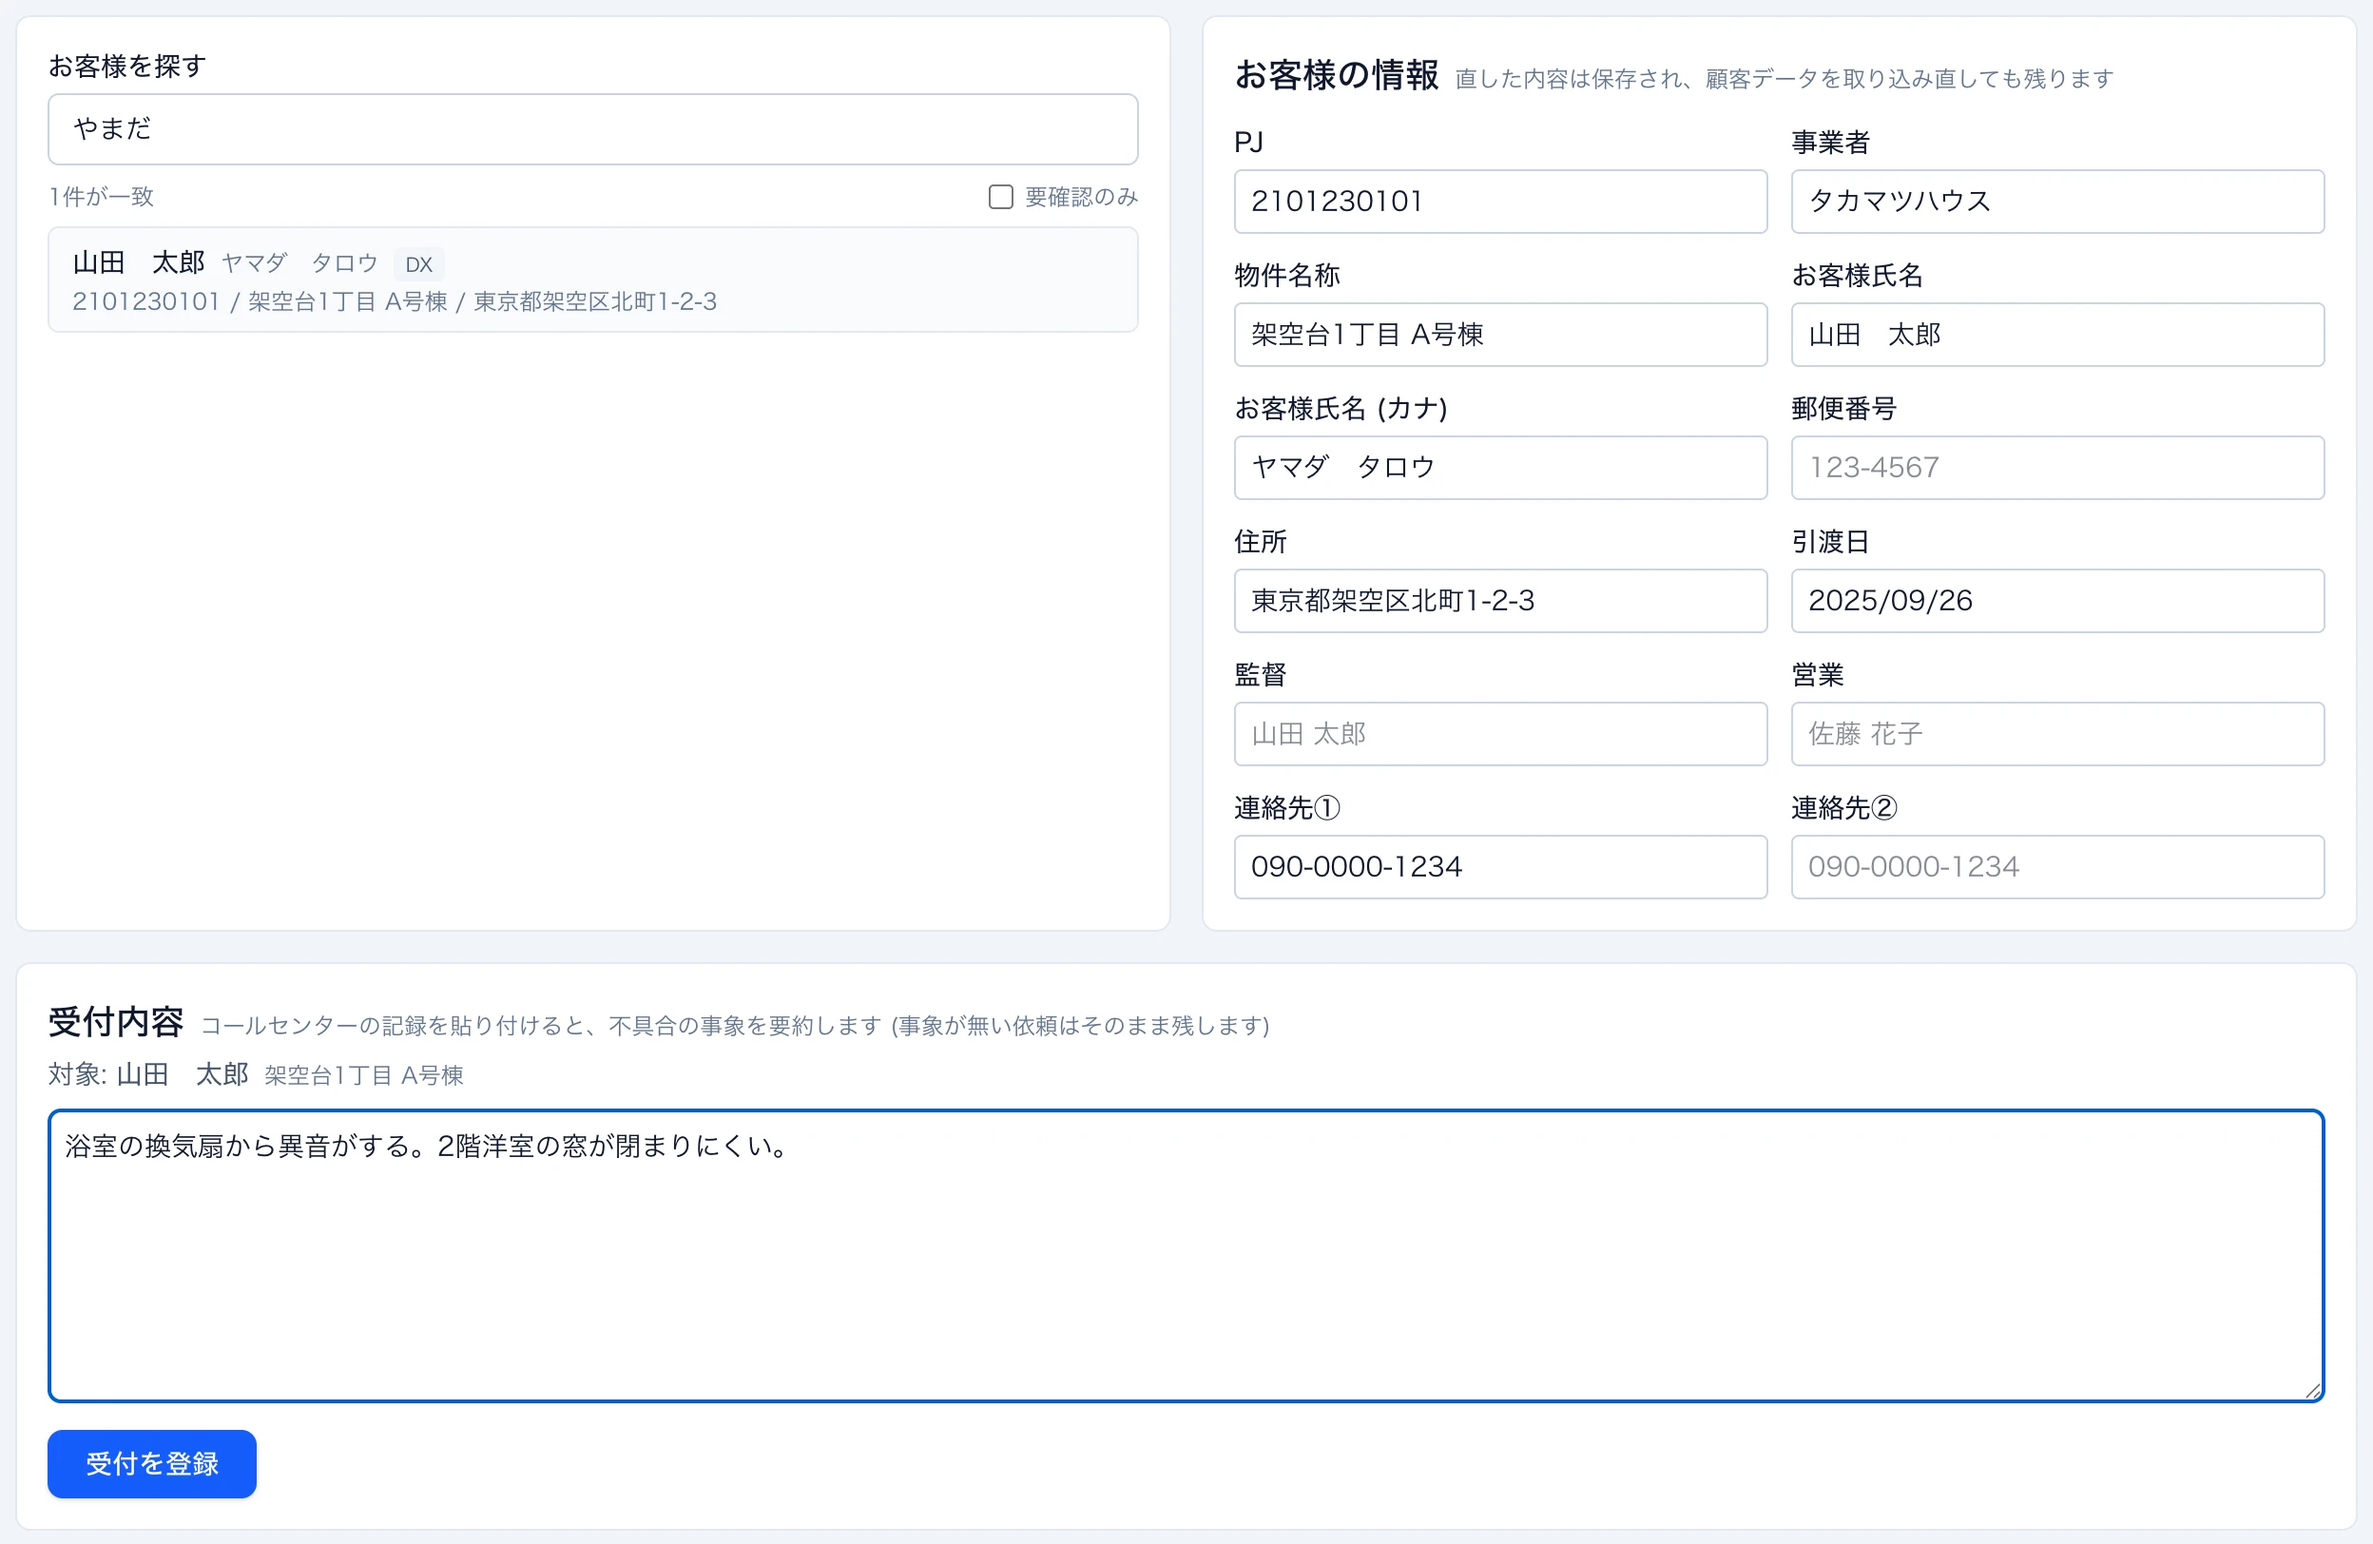
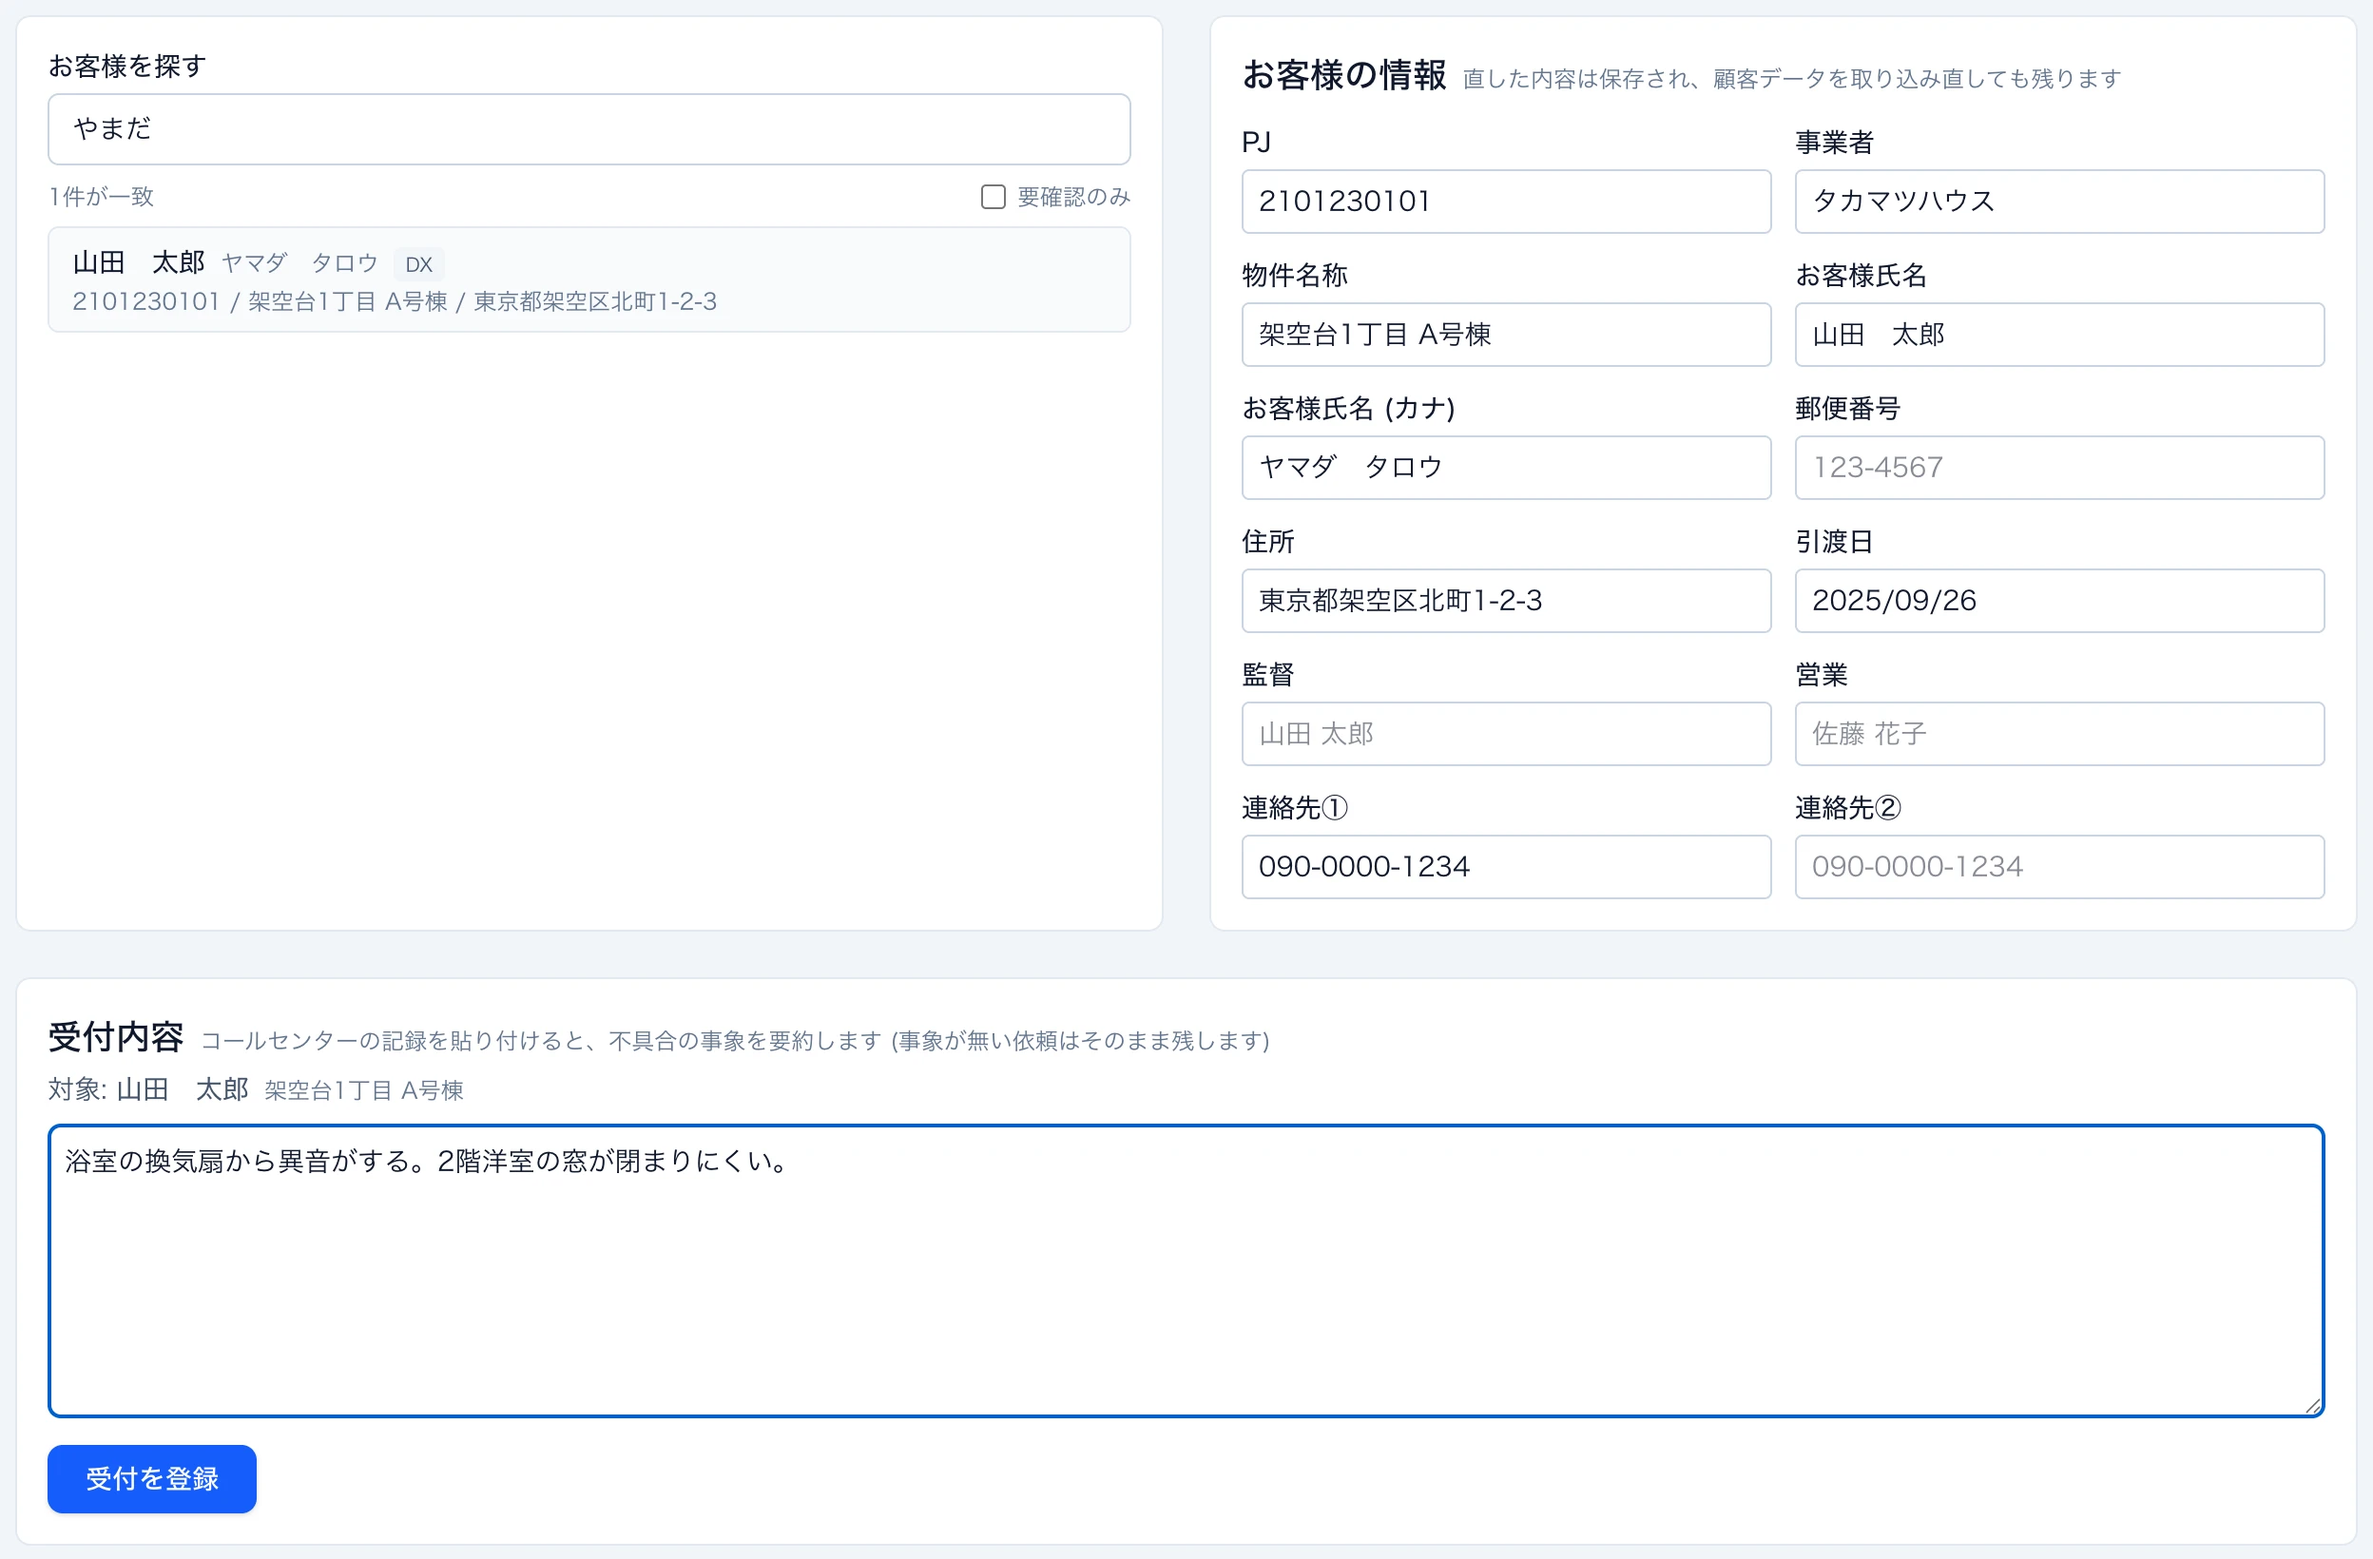
画面: 枠と枠の間の幅をどこでも同じにする（24px）
手順の帯の下は24px・枠と枠の間は16px・下の保存の欄の上は32px とばらばらだったので、すべて24pxに揃える
（顛末書・専決決裁書・捺印決裁書・定期点検・アフターメンテナンス）。
アフターの「要約の書き方を学習」の1行は受付の枠に付けたまま（枠の間の幅で離さない）。
使い方の写真は、枠の間が変わった after-intake だけ撮り直した。

diff --git a/components/after/after-page.tsx b/components/after/after-page.tsx
@@ -400,7 +400,8 @@ export function AfterPage() {
         </p>
       )}
 
-      <div className="mt-6 space-y-4">
+      {/* ★枠と枠の間はどれも同じ幅（24px。手順の帯の下・受付一覧・下の保存の欄の上とも揃える。2026-09-25） */}
+      <div className="mt-6 space-y-6">
         <CustomerImport
           id="after-import"
           summary={summary}
@@ -419,7 +420,7 @@ export function AfterPage() {
         <SharedFolderPanel id="after-shared" shared={shared} canPersist={storage.canPersist} />
 
         {customers.length > 0 && (
-          <div id="after-search" tabIndex={-1} className="grid scroll-mt-4 gap-4 lg:grid-cols-2">
+          <div id="after-search" tabIndex={-1} className="grid scroll-mt-4 gap-6 lg:grid-cols-2">
             <CustomerSearch
               customers={customers}
               query={query}
@@ -440,33 +441,34 @@ export function AfterPage() {
         )}
 
         {customers.length > 0 && (
-          <AfterIntake
-            id="after-intake"
-            customer={selected}
-            value={inquiryText}
-            onChange={setInquiryText}
-            onSubmit={register}
-            busy={registering}
-            error={registerError}
-            notice={registerNotice}
-          />
-        )}
-        {customers.length > 0 && (
-          <div className="mt-2 flex flex-wrap items-center gap-2 text-xs text-slate-500">
-            <span>要約の書き方を学習: {examples.length}件</span>
-            <button
-              type="button"
-              onClick={() => learning.setOpen(true)}
-              className="cursor-pointer rounded-md border border-slate-300 bg-white px-2 py-0.5 font-medium text-slate-700 hover:bg-slate-50"
-            >
-              一覧・消去
-            </button>
+          // ★学習の1行は受付の枠に付いているものなので、枠と枠の間の幅で離さない
+          <div>
+            <AfterIntake
+              id="after-intake"
+              customer={selected}
+              value={inquiryText}
+              onChange={setInquiryText}
+              onSubmit={register}
+              busy={registering}
+              error={registerError}
+              notice={registerNotice}
+            />
+            <div className="mt-2 flex flex-wrap items-center gap-2 text-xs text-slate-500">
+              <span>要約の書き方を学習: {examples.length}件</span>
+              <button
+                type="button"
+                onClick={() => learning.setOpen(true)}
+                className="cursor-pointer rounded-md border border-slate-300 bg-white px-2 py-0.5 font-medium text-slate-700 hover:bg-slate-50"
+              >
+                一覧・消去
+              </button>
+            </div>
           </div>
         )}
       </div>
 
       {cases.length > 0 && (
-        <section id="after-cases" tabIndex={-1} className="mt-8 scroll-mt-4">
+        <section id="after-cases" tabIndex={-1} className="mt-6 scroll-mt-4">
           <div className="mb-2 flex flex-wrap items-center justify-between gap-2">
             <h2 className="text-lg font-semibold">
               受付一覧

diff --git a/components/tenmatsu/tenmatsu-folder-page.tsx b/components/tenmatsu/tenmatsu-folder-page.tsx
@@ -935,7 +935,8 @@ export function TenmatsuFolderPage({ kind: kindId, header }: { kind: DocKindId; 
 
       {storage.storageError && <p className={WARN_CLASS}>{storage.storageError}</p>}
 
-      <div className="mt-6 space-y-4">
+      {/* ★枠と枠の間はどれも同じ幅（24px。手順の帯の下・下の保存の欄の上とも揃える。2026-09-25） */}
+      <div className="mt-6 space-y-6">
         {/* ---------- 保存先フォルダー ---------- */}
         <section id={sectionId("folder")} tabIndex={-1} className={`${SECTION_CLASS} scroll-mt-4`}>
           <div className="flex flex-wrap items-start justify-between gap-3">

diff --git a/components/storage-banner.tsx b/components/storage-banner.tsx
@@ -33,7 +33,8 @@ export function StorageBanner({
   onClearFont: () => void;
 }) {
   return (
-    <div className="mt-8 flex items-start justify-between gap-4 rounded-lg border border-slate-200 bg-white px-4 py-3 text-xs text-slate-500">
+    // ★上の枠との間は、枠と枠の間と同じ 24px（2026-09-25）
+    <div className="mt-6 flex items-start justify-between gap-4 rounded-lg border border-slate-200 bg-white px-4 py-3 text-xs text-slate-500">
       {/* ★span ではなく div。中に「くわしく」の折りたたみ (details) を置くため */}
       <div>
         {description}

diff --git a/app/page.tsx b/app/page.tsx
@@ -791,7 +791,8 @@ export default function Home() {
       )}
 
       {allRows.length > 0 && (
-        <section id="inspection-results" tabIndex={-1} className="mt-8 scroll-mt-4">
+        <section id="inspection-results" tabIndex={-1} className="mt-6 scroll-mt-4">
+          {/* ★枠と枠の間はどれも同じ幅（24px。2026-09-25） */}
           <div className="mb-2 flex flex-wrap items-center justify-between gap-2">
             <h2 className="text-lg font-semibold">
               抽出結果

diff --git a/components/tenmatsu/tenmatsu-local-server-page.tsx b/components/tenmatsu/tenmatsu-local-server-page.tsx
@@ -712,7 +712,7 @@ export function TenmatsuLocalServerPage({ kind: kindId, header }: { kind: DocKin
 
       {storage.storageError && <p className={WARN_CLASS}>{storage.storageError}</p>}
 
-      <div className="mt-6 space-y-4">
+      <div className="mt-6 space-y-6">
         {/* ---------- ローカルサーバー ---------- */}
         <section className={SECTION_CLASS}>
           <div className="flex flex-wrap items-start justify-between gap-3">

diff --git a/lib/help-shots.generated.ts b/lib/help-shots.generated.ts
@@ -30,8 +30,8 @@ export const HELP_SHOT_GEOMETRY: Readonly<Record<string, HelpShotGeometry>> = {
   },
   "after-intake": {
     width: 2496,
-    height: 1625,
-    hotspots: [{ x: 25, y: 8.4 }, { x: 50, y: 77.5 }, { x: 6.4, y: 94.7 }],
+    height: 1641,
+    hotspots: [{ x: 24.8, y: 8.3 }, { x: 50, y: 77.7 }, { x: 6.4, y: 94.8 }],
   },
   "after-cases": {
     width: 2496,
